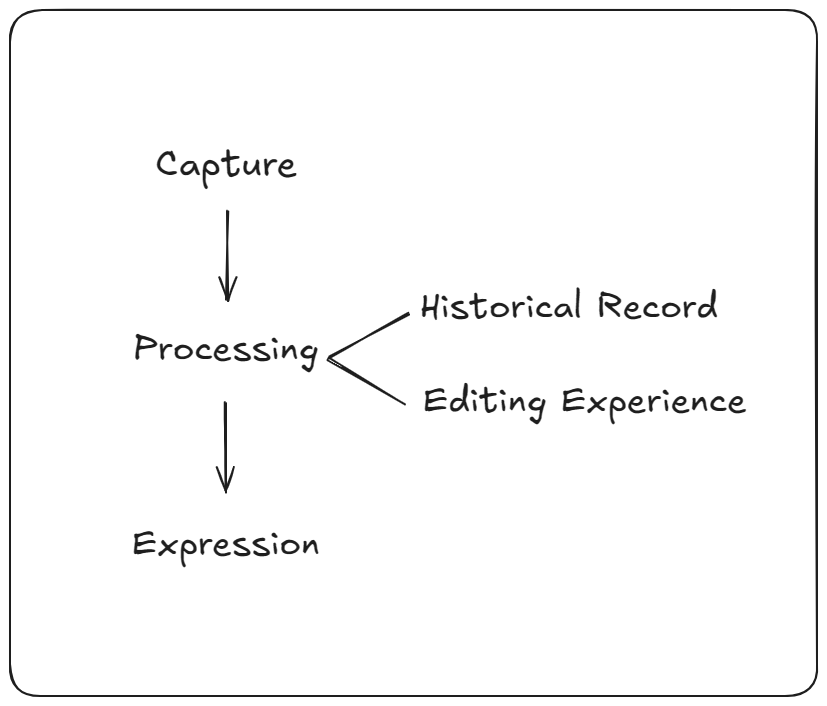
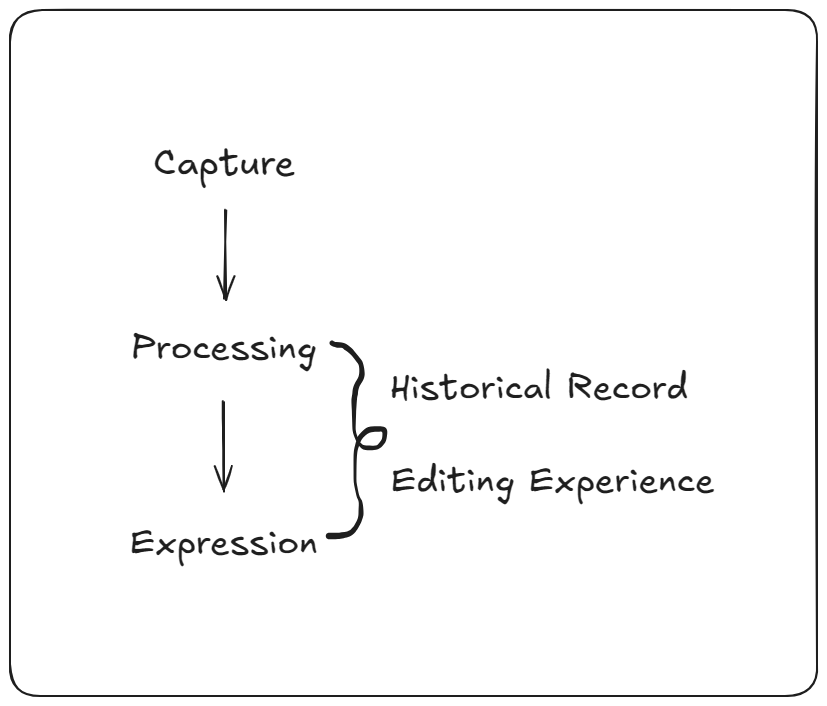
Updated Figure 2 and consequent texts
During editing, I realized that Figure 2 was wrong with the relation between the different layers. I updated the image and the texts describing them.

diff --git a/document-mastery.tex b/document-mastery.tex
@@ -54,7 +54,7 @@ As shown in Figure 1, the documentation system is divided in three different pro
 \item{Expression: This is where a new document comes to life. It stands upon the other areas, so they must be a solid base for success. It must include a word processor software.}
 \end{enumerate}
 
-Along the way, I found several new areas to be optimized as well, as a part of the documentation system. These areas live inside the Processing stage and are important to the vitality and productivity of the workflow. After some analyzing, I expanded the system to include \textbf{two more areas} inside stage two.
+Along the way, I found several new areas to be optimized as well, as a part of the documentation system. These areas live inside both the Processing stage and the Expression stage, and are important to the vitality and productivity of the workflow. After some analyzing, I expanded the system to include \textbf{two more areas} inside stage two.
 
 \begin{figure}[H]
 \caption{Two sub-areas are incorporated to the documentation system.}
